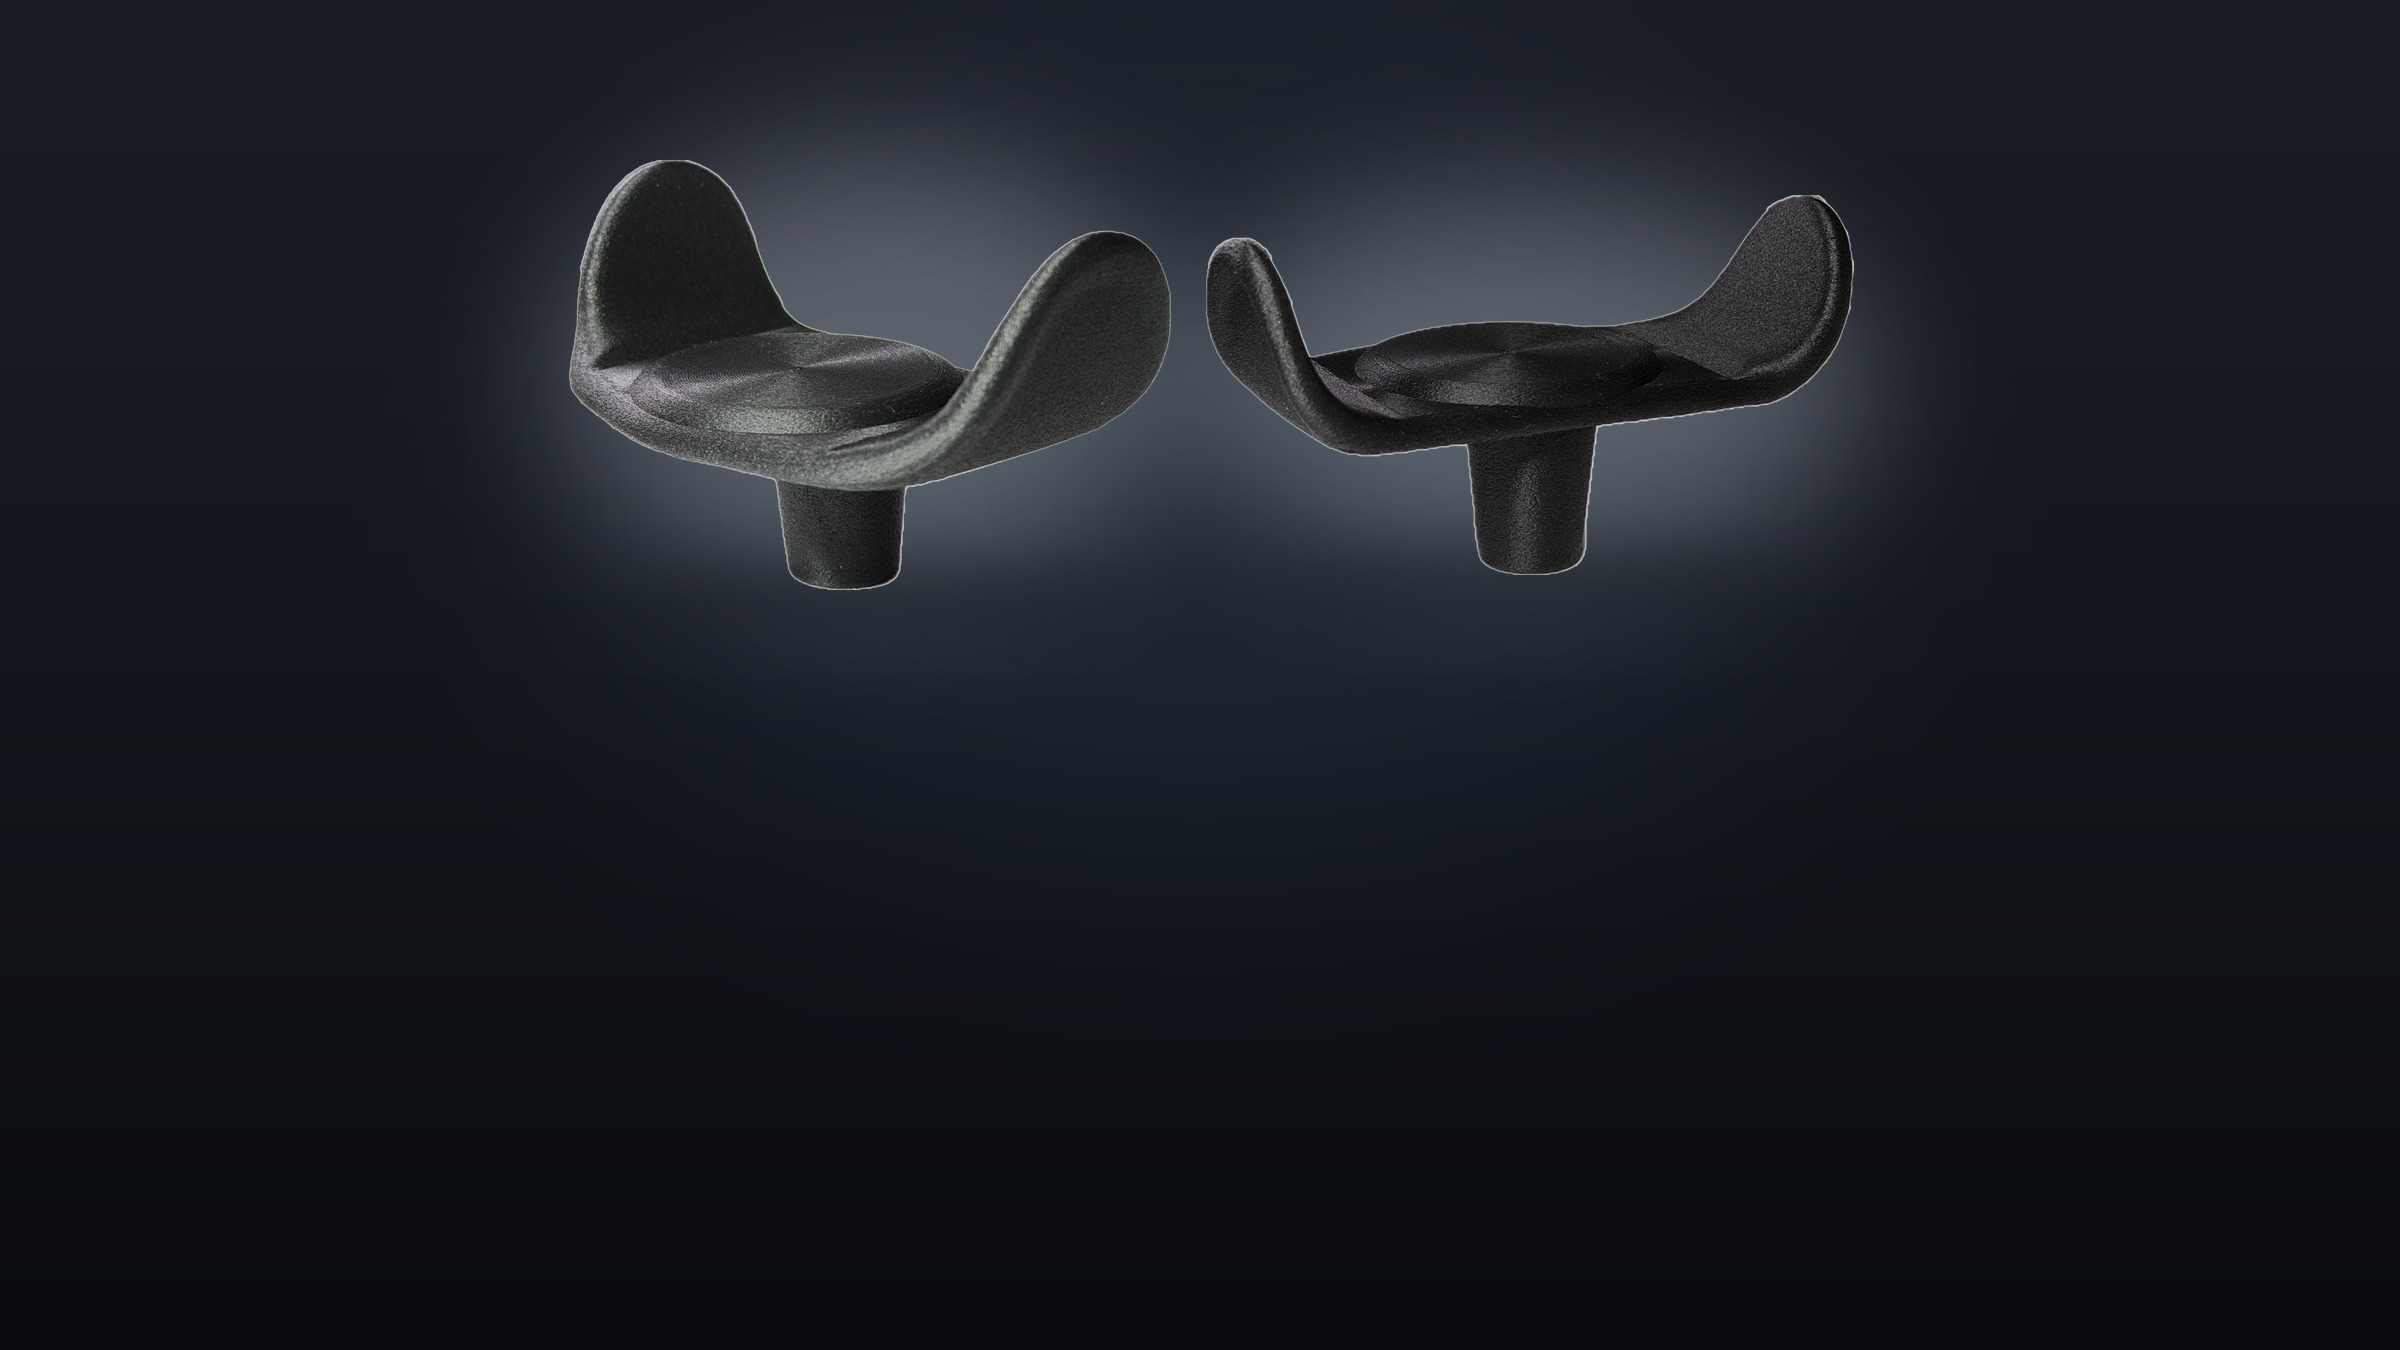
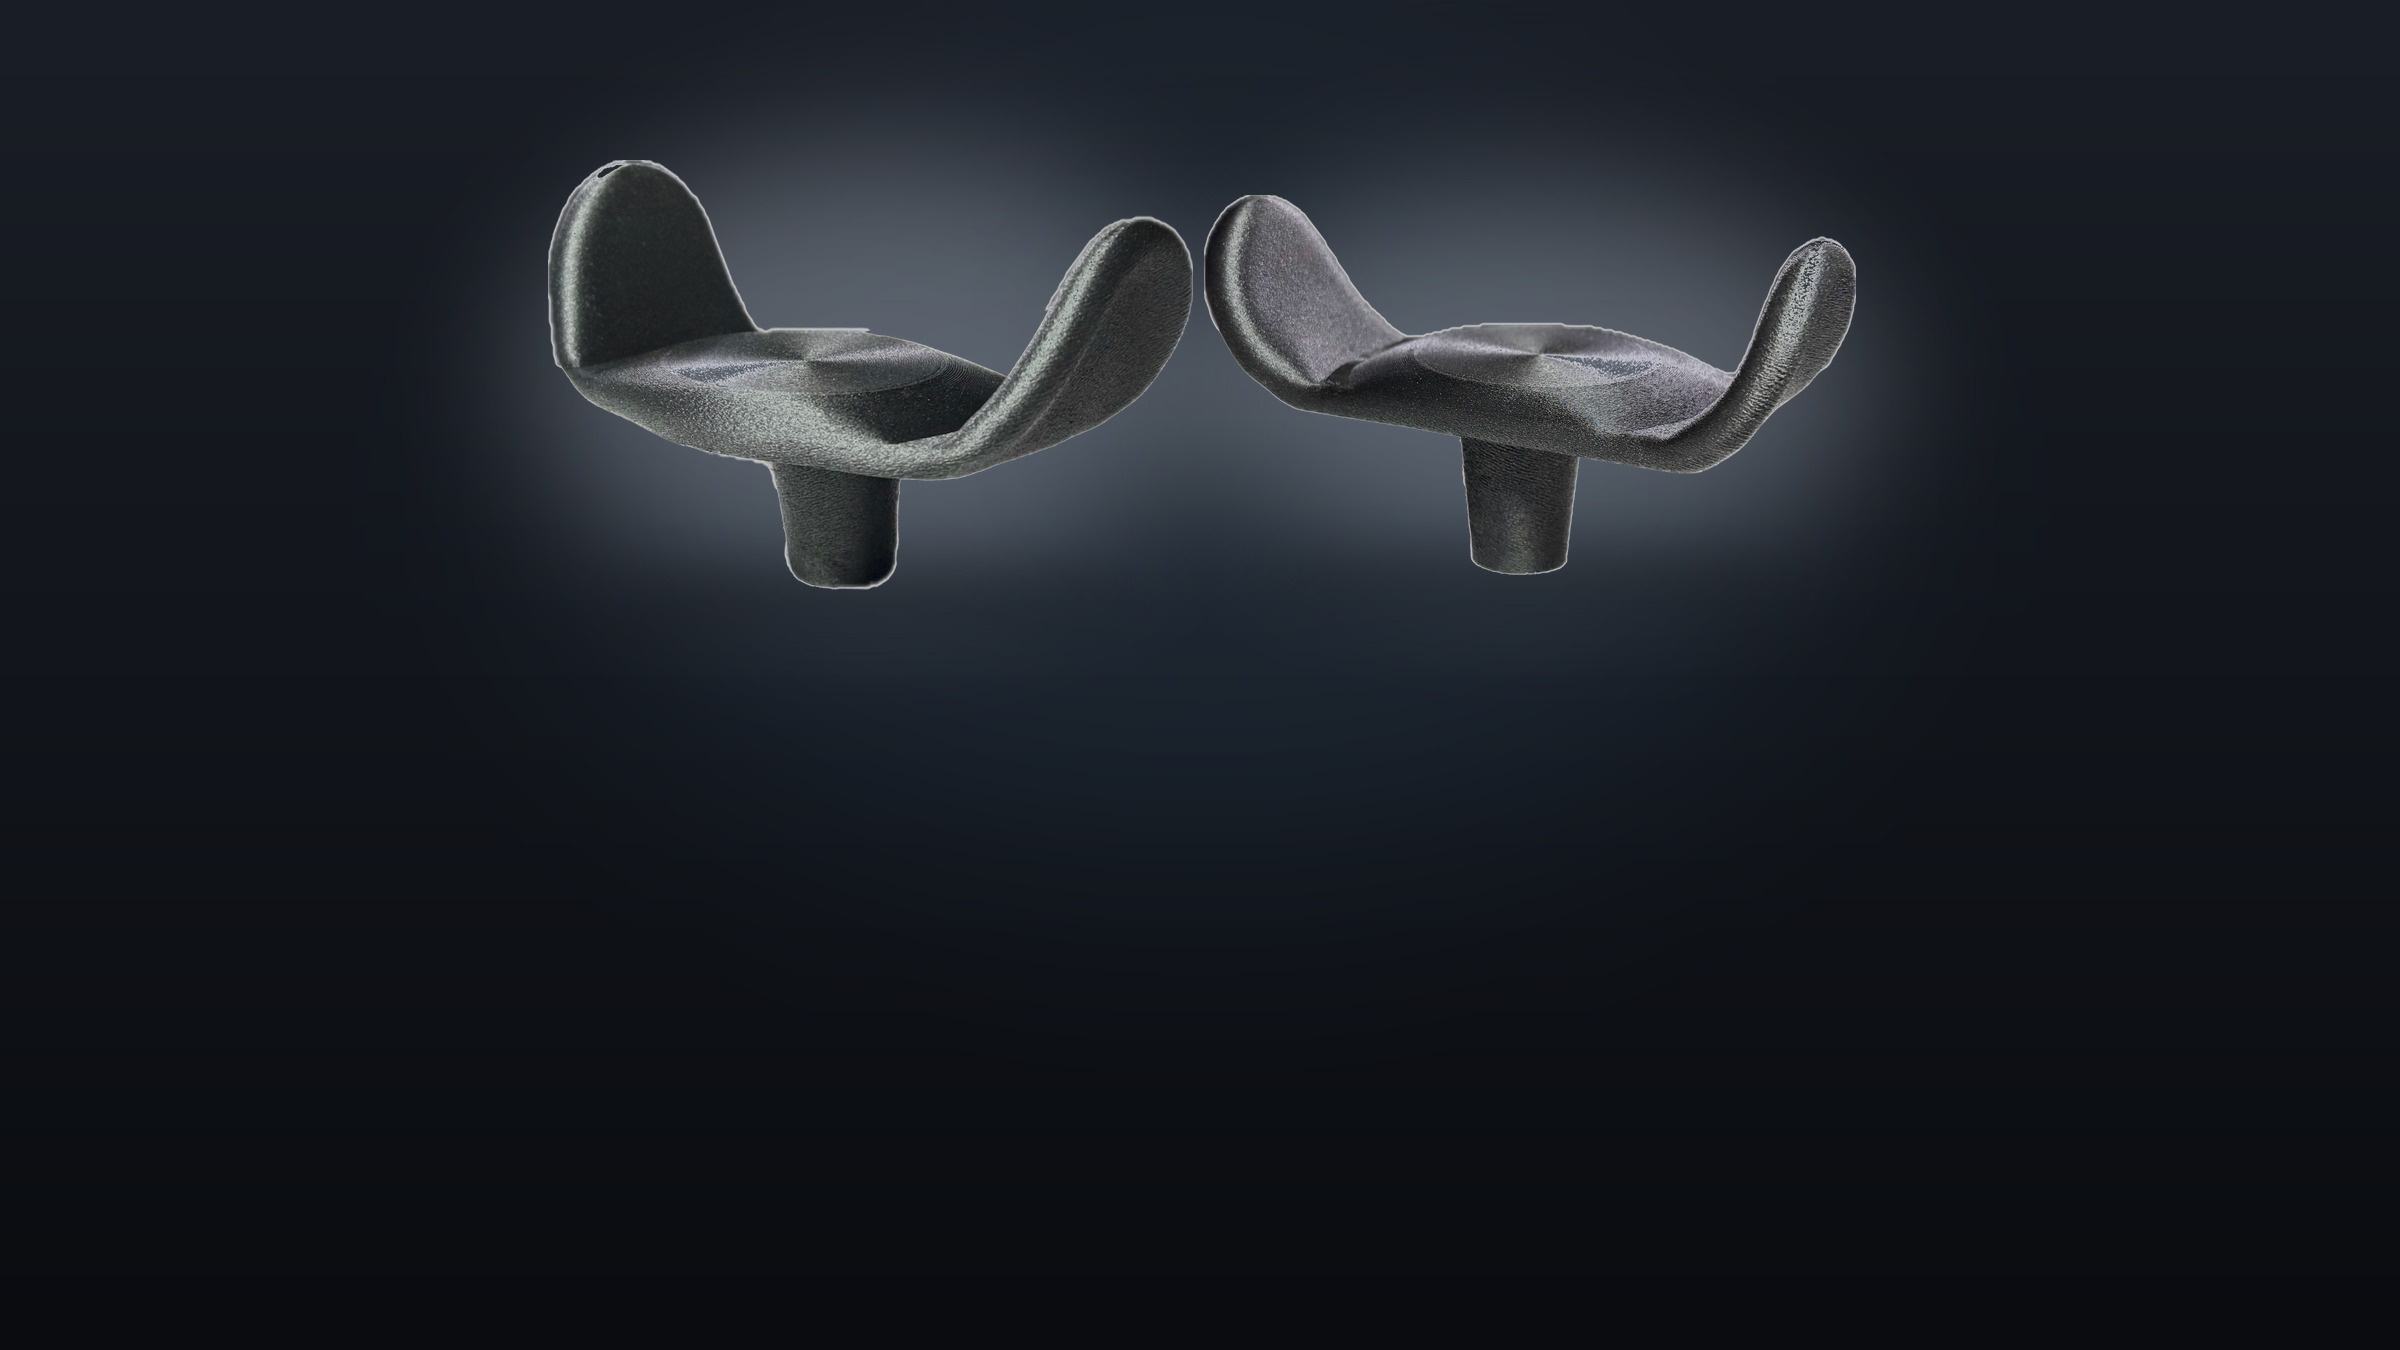
1.9

Changed region(s): [[0.2188, 0.0933, 0.7812, 0.4356]]

diff --git a/joystick-topper.html b/joystick-topper.html
@@ -8,7 +8,7 @@
 <meta property="og:title" content="Carbon Fiber Joystick Topper | Rockstar Health">
 <meta property="og:description" content="An ergonomic press-on grip for power wheelchair joysticks.">
 <meta property="og:type" content="website">
-<link rel="icon" href="assets/rockstar-logo.png">
+<link rel="icon" href="assets/favicon.png">
 <link rel="stylesheet" href="assets/rockstar-glass.css">
 <link rel="stylesheet" href="assets/site.css">
 </head>
@@ -17,13 +17,13 @@
 
 <main><div class="page-width page-body"><section class="rh-page-hero" aria-labelledby="rh-pdp-h1"><div class="rh-page-hero__eyebrow">Adaptive Accessory</div><h1 class="rh-page-hero__heading" id="rh-pdp-h1">Carbon Fiber Goalpost Joystick Topper</h1><p class="rh-page-hero__lede">An open U-shape grip that replaces the standard joystick knob, designed by a wheelchair user.</p></section>
 
-<section class="rh-section rh-section--wide rh-pdp"><div class="rh-pdp__grid"><div class="rh-pdp__gallery"><img class="rh-pdp__main" id="pdpMain" src="assets/pdp-main.jpg" alt="Carbon fiber goalpost joystick topper"><div class="rh-pdp__thumbs"><button type="button" class="rh-pdp__thumb is-active"><img src="assets/pdp-main.jpg" alt="Three-quarter view"></button><button type="button" class="rh-pdp__thumb"><img src="assets/pdp-front.jpg" alt="Front view"></button><button type="button" class="rh-pdp__thumb"><img src="assets/topper-installed.jpg" alt="Installed on a joystick"></button><button type="button" class="rh-pdp__thumb"><img src="assets/topper-carbon.jpg" alt="Carbon fiber detail"></button><button type="button" class="rh-pdp__thumb"><img src="assets/topper-printer.jpg" alt="3D printing"></button></div></div><div class="rh-pdp__info"><div class="rh-pdp__badges"><span class="rh-pdp__badge">Made in USA</span><span class="rh-pdp__badge">Nonprofit owned</span><span class="rh-pdp__badge">Lifetime warranty</span></div><div class="rh-pdp__price">$24.99 <small>free shipping</small></div><p class="rh-pdp__desc">Most joysticks ship with a small round knob you have to pinch and squeeze. This replaces it with an open, U-shaped surface that is easier to live with all day.</p><ul class="rh-pdp__points"><li>Open goalpost shape, nothing to pinch or squeeze</li><li>Carbon fiber reinforced nylon, not soft plastic</li><li>Fits most standard joystick stems, about 6.4 mm</li><li>Unlimited lifetime warranty</li></ul><div class="rh-pdp__buy"><a class="button button-primary" href="https://www.etsy.com/search?q=rockstar%20health%20joystick%20topper" target="_blank" rel="noopener">Buy on Etsy</a><a class="button button-secondary" href="https://www.ebay.com/sch/i.html?_nkw=rockstar+health+joystick+topper" target="_blank" rel="noopener">Buy on eBay</a></div><p class="rh-pdp__note">Designed and 3D printed to order in Saint Johns, Florida.</p></div></div><script>document.querySelectorAll(".rh-pdp__thumb").forEach(function(t){t.addEventListener("click",function(){var i=this.querySelector("img"),m=document.getElementById("pdpMain");if(m&&i)m.src=i.src;document.querySelectorAll(".rh-pdp__thumb").forEach(function(x){x.classList.remove("is-active")});this.classList.add("is-active")})});</script></section>
+<section class="rh-section rh-section--wide rh-pdp"><div class="rh-pdp__grid"><div class="rh-pdp__gallery"><img class="rh-pdp__main" id="pdpMain" src="assets/pdp-main.jpg" alt="Carbon fiber goalpost joystick topper"><div class="rh-pdp__thumbs"><button type="button" class="rh-pdp__thumb is-active"><img src="assets/pdp-main.jpg" alt="Three-quarter view"></button><button type="button" class="rh-pdp__thumb"><img src="assets/pdp-front.jpg" alt="Front view"></button><button type="button" class="rh-pdp__thumb"><img src="assets/topper-installed.jpg" alt="Installed on a joystick"></button><button type="button" class="rh-pdp__thumb"><img src="assets/topper-carbon.jpg" alt="Carbon fiber detail"></button><button type="button" class="rh-pdp__thumb"><img src="assets/topper-printer.jpg" alt="3D printing"></button></div></div><div class="rh-pdp__info"><div class="rh-pdp__badges"><span class="rh-pdp__badge">Made in USA</span><span class="rh-pdp__badge">Nonprofit owned</span><span class="rh-pdp__badge">Lifetime warranty</span></div><div class="rh-pdp__price">$19.49 <small>free shipping</small></div><p class="rh-pdp__desc">Most joysticks ship with a small round knob you have to pinch and squeeze. This replaces it with an open, U-shaped surface that is easier to live with all day.</p><ul class="rh-pdp__points"><li>Open goalpost shape, nothing to pinch or squeeze</li><li>Carbon fiber reinforced nylon, not soft plastic</li><li>Fits most standard joystick stems, about 6.4 mm</li><li>Unlimited lifetime warranty</li></ul><div class="rh-pdp__buy"><a class="button button-primary" href="https://a.co/d/05mTZezS" target="_blank" rel="noopener">Buy on Amazon</a><a class="button button-secondary" href="https://www.etsy.com/listing/4526148081/carbon-fiber-wheelchair-joystick-handle" target="_blank" rel="noopener">Buy on Etsy</a><a class="button button-secondary" href="https://www.ebay.com/itm/366497483199" target="_blank" rel="noopener">Buy on eBay</a></div><p class="rh-pdp__note">Designed and 3D printed to order in Saint Johns, Florida.</p></div></div><script>document.querySelectorAll(".rh-pdp__thumb").forEach(function(t){t.addEventListener("click",function(){var i=this.querySelector("img"),m=document.getElementById("pdpMain");if(m&&i)m.src=i.src;document.querySelectorAll(".rh-pdp__thumb").forEach(function(x){x.classList.remove("is-active")});this.classList.add("is-active")})});</script></section>
 
 <section class="rh-section" aria-labelledby="rh-pdp-fit"><h2 class="rh-section__title" id="rh-pdp-fit">How It Fits</h2><p class="rh-marketplaces__sub">It is a press-on upgrade, not an install. Here is the whole process.</p><div class="rh-steps"><div class="rh-step"><div class="rh-step__n">1</div><h3 class="rh-step__t">Measure your stem</h3><p class="rh-step__d">Standard power wheelchair joystick stems are about 6.4 mm across. Measure yours with calipers or a ruler before ordering.</p></div><div class="rh-step"><div class="rh-step__n">2</div><h3 class="rh-step__t">Press it on</h3><p class="rh-step__d">The topper presses firmly onto the stem by hand. No tools, no adhesive, and no dealer appointment.</p></div><div class="rh-step"><div class="rh-step__n">3</div><h3 class="rh-step__t">Drive your way</h3><p class="rh-step__d">Steer with an open hand, the side of your hand, your wrist, or a light grip. Pop it back off any time.</p></div></div></section>
 
 <section class="rh-section" aria-labelledby="rh-pdp-who"><h2 class="rh-section__title" id="rh-pdp-who">Who It Is For</h2><div class="rh-prose"><p>People reach for the goalpost shape for all kinds of reasons.</p></div><ul class="rh-pdp__points" style="max-width:560px;margin:0 auto;text-align:left;"><li>Drivers who find the stock round knob hard to hold or tiring over a long day</li><li>Anyone who wants a steadier, more comfortable place to rest the hand</li><li>A swappable upgrade you can add yourself, with no dealer and no prescription</li></ul></section>
 
-<section class="rh-section" aria-labelledby="rh-pdp-specs"><h2 class="rh-section__title" id="rh-pdp-specs">Specifications</h2><div class="rh-specs"><div class="rh-spec"><span class="rh-spec__k">Price</span><span class="rh-spec__v">$24.99, free shipping</span></div><div class="rh-spec"><span class="rh-spec__k">Material</span><span class="rh-spec__v">Carbon fiber reinforced nylon (PAHT-CF)</span></div><div class="rh-spec"><span class="rh-spec__k">Fit</span><span class="rh-spec__v">Most standard stems, about 6.4 mm (bore 6.6 mm)</span></div><div class="rh-spec"><span class="rh-spec__k">Size</span><span class="rh-spec__v">About 4.1 x 4.0 x 1.2 in</span></div><div class="rh-spec"><span class="rh-spec__k">Finish</span><span class="rh-spec__v">Premium matte black</span></div><div class="rh-spec"><span class="rh-spec__k">Weight</span><span class="rh-spec__v">About 0.7 oz</span></div><div class="rh-spec"><span class="rh-spec__k">Made in</span><span class="rh-spec__v">Saint Johns, Florida</span></div><div class="rh-spec"><span class="rh-spec__k">Warranty</span><span class="rh-spec__v">Unlimited lifetime</span></div></div></section>
+<section class="rh-section" aria-labelledby="rh-pdp-specs"><h2 class="rh-section__title" id="rh-pdp-specs">Specifications</h2><div class="rh-specs"><div class="rh-spec"><span class="rh-spec__k">Price</span><span class="rh-spec__v">$19.49, free shipping</span></div><div class="rh-spec"><span class="rh-spec__k">Material</span><span class="rh-spec__v">Carbon fiber reinforced nylon (PAHT-CF)</span></div><div class="rh-spec"><span class="rh-spec__k">Fit</span><span class="rh-spec__v">Most standard stems, about 6.4 mm (bore 6.6 mm)</span></div><div class="rh-spec"><span class="rh-spec__k">Size</span><span class="rh-spec__v">About 4.1 x 4.0 x 1.2 in</span></div><div class="rh-spec"><span class="rh-spec__k">Finish</span><span class="rh-spec__v">Premium matte black</span></div><div class="rh-spec"><span class="rh-spec__k">Weight</span><span class="rh-spec__v">About 0.7 oz</span></div><div class="rh-spec"><span class="rh-spec__k">Made in</span><span class="rh-spec__v">Saint Johns, Florida</span></div><div class="rh-spec"><span class="rh-spec__k">Warranty</span><span class="rh-spec__v">Unlimited lifetime</span></div></div></section>
 
 <section class="rh-section" aria-labelledby="rh-pdp-mat"><h2 class="rh-section__title" id="rh-pdp-mat">How It Is Made</h2><div class="rh-prose"><p>Each topper is 3D printed to order from carbon fiber reinforced nylon, an engineering material (PAHT-CF) that is stiff, strong, and light. It stands up to daily use far better than the soft plastic on a stock knob.</p><p>We print on a state of the art multi material machine, check quality on every print, and tune each profile for strength and durability. The finish is a clean matte black, and the part is built to last.</p></div></section>
 

diff --git a/about.html b/about.html
@@ -8,7 +8,7 @@
 <meta property="og:title" content="About | Rockstar Health">
 <meta property="og:description" content="Who we are and why we started Rockstar Health.">
 <meta property="og:type" content="website">
-<link rel="icon" href="assets/rockstar-logo.png">
+<link rel="icon" href="assets/favicon.png">
 <link rel="stylesheet" href="assets/rockstar-glass.css">
 <link rel="stylesheet" href="assets/site.css">
 </head>
@@ -19,7 +19,7 @@
 
 <section class="rh-section" aria-labelledby="our-mission"><h2 class="rh-section__title" id="our-mission">Our Mission</h2><div class="rh-prose"><p>Rockstar Health is a nonprofit-owned mobility company redesigning how rehabilitation technology is built, distributed, and accessed.</p><p>For decades, that world has run on dealer networks, proprietary software, and reimbursement rules that leave users with little control over the equipment they depend on every day. Routine adjustments mean dealer appointments. Repairs can take weeks or months. Basic accessibility features get treated as optional upgrades. Too often, mobility comes down to insurance approval instead of actual need.</p><p>Rockstar Health was founded to challenge that structure. We believe:</p><ul><li>Wheelchair users should have real control over their own equipment</li><li>Personalization should not require unnecessary gatekeeping</li><li>Repairs should be fast and accessible, not a months-long wait</li><li>Warranties should not punish people for self-advocacy</li><li>A mobility company should do more than maximize profit</li></ul><p>We are not trying to rebrand what already exists. The structure itself has to be different, which is why the company is built the way it is.</p></div><div class="rh-cta-group rh-cta-group--row"><a href="financial-structure.html" class="button button-secondary">How we are structured</a></div></section>
 
-<section class="rh-section" aria-labelledby="rh-title-about-3"><h2 class="rh-section__title" id="rh-title-about-3">Meet the Founder</h2><figure class="rh-figure" role="img" aria-label="Portrait of Ryleigh Newman, founder of Rockstar Health. Replace this placeholder with a real photo in the page editor."><div class="rh-image-placeholder rh-image-placeholder--portrait"><svg class="rh-image-placeholder__icon" viewBox="0 0 24 24" fill="none" stroke="currentColor" stroke-width="1.5" aria-hidden="true"><rect x="3" y="3" width="18" height="18" rx="2"/><circle cx="9" cy="9" r="2"/><path d="m21 15-3.086-3.086a2 2 0 0 0-2.828 0L6 21"/></svg><span class="rh-image-placeholder__label">Founder photo</span><span class="rh-image-placeholder__desc">Portrait of Ryleigh Newman, founder of Rockstar Health. Replace this placeholder with a real photo in the page editor.</span></div></figure><div class="rh-prose"><p>Ryleigh Newman is the founder and CEO of Rockstar Health, and a power wheelchair user himself. The company came out of years of watching the gap between what wheelchair users need and what the system actually delivers.</p><p>He graduated from the Harriet L. Wilkes Honors College at Florida Atlantic University with a major in Biological and Physical Sciences and concentrations in biochemistry and data science.</p><p>His research focuses on hereditary neuromuscular disease, genomics, and rare disease discovery. His honors thesis, <em>Uncovering a Novel Neuromuscular Disorder</em>, investigates a multigenerational hereditary neuropathy using whole genome sequencing and comparative genetic analysis.</p></div><div class="rh-cta-group rh-cta-group--row"><a href="our-products.html" class="button button-secondary">See what we make</a></div></section></div></main>
+<section class="rh-section" aria-labelledby="rh-title-about-3"><h2 class="rh-section__title" id="rh-title-about-3">Meet the Founder</h2><figure class="rh-figure"><img src="assets/founder.jpg" alt="Ryleigh Newman, founder of Rockstar Health" width="800" height="800" style="display:block;width:100%;max-width:300px;margin:0 auto 10px;border-radius:22px;aspect-ratio:1;object-fit:cover;box-shadow:0 12px 34px rgba(0,0,0,.4)"></figure><div class="rh-prose"><p>Ryleigh Newman is the founder and CEO of Rockstar Health, and a power wheelchair user himself. The company came out of years of watching the gap between what wheelchair users need and what the system actually delivers.</p><p>He graduated from the Harriet L. Wilkes Honors College at Florida Atlantic University with a major in Biological and Physical Sciences and concentrations in biochemistry and data science.</p><p>His research focuses on hereditary neuromuscular disease, genomics, and rare disease discovery. His honors thesis, <em>Uncovering a Novel Neuromuscular Disorder</em>, investigates a multigenerational hereditary neuropathy using whole genome sequencing and comparative genetic analysis.</p></div><div class="rh-cta-group rh-cta-group--row"><a href="our-products.html" class="button button-secondary">See what we make</a></div></section></div></main>
 <footer class="site-footer"><div class="rh-footer"><p>© 2026 Rockstar Health · <a href="storefronts.html">Storefronts</a> · <a href="custom-order.html">Custom Order</a></p></div></footer>
 </body>
 </html>

diff --git a/index.html b/index.html
@@ -8,7 +8,7 @@
 <meta property="og:title" content="Rockstar Health">
 <meta property="og:description" content="A nonprofit-owned power wheelchair company building affordable, accessible mobility products.">
 <meta property="og:type" content="website">
-<link rel="icon" href="assets/rockstar-logo.png">
+<link rel="icon" href="assets/favicon.png">
 <link rel="stylesheet" href="assets/rockstar-glass.css">
 <link rel="stylesheet" href="assets/site.css">
 </head>
@@ -17,7 +17,7 @@
 <section class="rh-hero"><div class="rh-hero__inner page-width"><h1 class="rh-hero__title">The nonprofit power wheelchair company.</h1><a href="our-products.html" class="button button-primary">View Our Products</a></div></section>
 <main><div class="page-width page-body"><section class="rh-section"><div class="rh-prose"><p>Rockstar Health makes mobility equipment that starts with the person using it, not the dealer or the insurer. We are nonprofit owned, so every product exists to make independence more affordable and more comfortable for the people who need it. We are early, and we are building in the open.</p></div></section>
 
-<section class="rh-section rh-section--wide" aria-labelledby="home-make"><h2 class="rh-section__title" id="home-make">What we make today</h2><p class="rh-marketplaces__sub">We are starting with adaptive accessories, the small things that make a power chair easier to live with every day.</p><div class="rh-products" style="max-width:400px;margin-inline:auto"><a class="rh-product-card" href="joystick-topper.html"><div class="rh-product-card__media"><img src="assets/card-toppers.jpg" alt="Carbon fiber goalpost joystick topper"></div><div class="rh-product-card__body"><h3 class="rh-product-card__title">Carbon Fiber Goalpost Topper</h3><p class="rh-product-card__desc">An open U-shape grip that replaces the standard joystick knob, for open-hand or low-grip driving. $24.99.</p><span class="rh-product-card__cta">View product</span></div></a></div></section>
+<section class="rh-section rh-section--wide" aria-labelledby="home-make"><h2 class="rh-section__title" id="home-make">What we make today</h2><p class="rh-marketplaces__sub">We are starting with adaptive accessories, the small things that make a power chair easier to live with every day.</p><div class="rh-products" style="max-width:400px;margin-inline:auto"><a class="rh-product-card" href="joystick-topper.html"><div class="rh-product-card__media"><img src="assets/card-toppers.jpg" alt="Carbon fiber goalpost joystick topper"></div><div class="rh-product-card__body"><h3 class="rh-product-card__title">Carbon Fiber Goalpost Topper</h3><p class="rh-product-card__desc">An open U-shape grip that replaces the standard joystick knob, for open-hand or low-grip driving. $19.49.</p><span class="rh-product-card__cta">View product</span></div></a></div></section>
 
 <section class="rh-section" aria-labelledby="home-more"><h2 class="rh-section__title" id="home-more">The bigger picture</h2><div class="rh-prose"><p>Rockstar Health was founded in May 2026 by a power wheelchair user who got tired of waiting for the industry to build for real hands and real days. Where the company came from, and how it is structured to keep the mission ahead of profit, are both worth the read.</p></div><div class="rh-cta-group rh-cta-group--row"><a href="about.html" class="button button-primary">Read our story</a><a href="financial-structure.html" class="button button-secondary">How we are structured</a></div></section></div></main>
 <footer class="site-footer"><div class="rh-footer"><p>© 2026 Rockstar Health · <a href="storefronts.html">Storefronts</a> · <a href="custom-order.html">Custom Order</a></p></div></footer>

diff --git a/our-products.html b/our-products.html
@@ -8,7 +8,7 @@
 <meta property="og:title" content="Our Products | Rockstar Health">
 <meta property="og:description" content="Adaptive mobility accessories, starting with the carbon fiber joystick topper.">
 <meta property="og:type" content="website">
-<link rel="icon" href="assets/rockstar-logo.png">
+<link rel="icon" href="assets/favicon.png">
 <link rel="stylesheet" href="assets/rockstar-glass.css">
 <link rel="stylesheet" href="assets/site.css">
 </head>
@@ -17,7 +17,7 @@
 
 <main><div class="page-width page-body"><section class="rh-page-hero" aria-labelledby="rh-hero-products-1"><div class="rh-page-hero__eyebrow">Shop</div><h1 class="rh-page-hero__heading" id="rh-hero-products-1">Our Products</h1><p class="rh-page-hero__lede">Adaptive accessories and mobility-focused products, designed by a wheelchair user and built around real daily use.</p></section>
 
-<section class="rh-section rh-section--wide" aria-labelledby="rh-title-products-2"><h2 class="rh-section__title" id="rh-title-products-2">Current Products</h2><p class="rh-marketplaces__sub">We are starting with adaptive accessories while the larger mobility work develops. Each one comes from a real gap a wheelchair user runs into.</p><div class="rh-products" style="grid-template-columns:repeat(auto-fit,minmax(195px,1fr))"><a class="rh-product-card" href="joystick-topper.html"><div class="rh-product-card__media"><img src="assets/card-toppers.jpg" alt="Joystick Toppers"></div><div class="rh-product-card__body"><h3 class="rh-product-card__title">Joystick Toppers</h3><p class="rh-product-card__desc">Our carbon fiber goalpost topper. An open U-shape grip that replaces the knob for open-hand or low-grip driving. $24.99.</p><span class="rh-product-card__cta">View product</span></div></a><div class="rh-product-card rh-product-card--soon"><div class="rh-product-card__media"><svg class="rh-product-card__icon" viewBox="0 0 24 24" fill="none" stroke="currentColor" stroke-width="1.5" aria-hidden="true"><rect x="3" y="3" width="18" height="18" rx="2"/><circle cx="9" cy="9" r="2"/><path d="m21 15-3.086-3.086a2 2 0 0 0-2.828 0L6 21"/></svg><span class="rh-product-card__media-label">Photo coming soon</span></div><div class="rh-product-card__body"><h3 class="rh-product-card__title">Joystick Covers</h3><p class="rh-product-card__desc">A protective layer that keeps your joystick clean and easy to grip. Made to fit common power wheelchair controllers.</p><span class="rh-product-card__cta rh-product-card__cta--soon">Coming soon</span></div></div><div class="rh-product-card rh-product-card--soon"><div class="rh-product-card__media"><svg class="rh-product-card__icon" viewBox="0 0 24 24" fill="none" stroke="currentColor" stroke-width="1.5" aria-hidden="true"><rect x="3" y="3" width="18" height="18" rx="2"/><circle cx="9" cy="9" r="2"/><path d="m21 15-3.086-3.086a2 2 0 0 0-2.828 0L6 21"/></svg><span class="rh-product-card__media-label">Photo coming soon</span></div><div class="rh-product-card__body"><h3 class="rh-product-card__title">Seating Accessories</h3><p class="rh-product-card__desc">Small additions for comfort and positioning, built around how people actually sit in their chairs all day.</p><span class="rh-product-card__cta rh-product-card__cta--soon">Coming soon</span></div></div><div class="rh-product-card rh-product-card--soon"><div class="rh-product-card__media"><svg class="rh-product-card__icon" viewBox="0 0 24 24" fill="none" stroke="currentColor" stroke-width="1.5" aria-hidden="true"><rect x="3" y="3" width="18" height="18" rx="2"/><circle cx="9" cy="9" r="2"/><path d="m21 15-3.086-3.086a2 2 0 0 0-2.828 0L6 21"/></svg><span class="rh-product-card__media-label">Photo coming soon</span></div><div class="rh-product-card__body"><h3 class="rh-product-card__title">Desk Accessories</h3><p class="rh-product-card__desc">Pieces that help a desk or tray work the way a power chair actually approaches it.</p><span class="rh-product-card__cta rh-product-card__cta--soon">Coming soon</span></div></div></div></section>
+<section class="rh-section rh-section--wide" aria-labelledby="rh-title-products-2"><h2 class="rh-section__title" id="rh-title-products-2">Current Products</h2><p class="rh-marketplaces__sub">We are starting with adaptive accessories while the larger mobility work develops. Each one comes from a real gap a wheelchair user runs into.</p><div class="rh-products" style="grid-template-columns:repeat(auto-fit,minmax(195px,1fr))"><a class="rh-product-card" href="joystick-topper.html"><div class="rh-product-card__media"><img src="assets/card-toppers.jpg" alt="Joystick Toppers"></div><div class="rh-product-card__body"><h3 class="rh-product-card__title">Joystick Toppers</h3><p class="rh-product-card__desc">Our carbon fiber goalpost topper. An open U-shape grip that replaces the knob for open-hand or low-grip driving. $19.49.</p><span class="rh-product-card__cta">View product</span></div></a><div class="rh-product-card rh-product-card--soon"><div class="rh-product-card__media"><svg class="rh-product-card__icon" viewBox="0 0 24 24" fill="none" stroke="currentColor" stroke-width="1.5" aria-hidden="true"><rect x="3" y="3" width="18" height="18" rx="2"/><circle cx="9" cy="9" r="2"/><path d="m21 15-3.086-3.086a2 2 0 0 0-2.828 0L6 21"/></svg><span class="rh-product-card__media-label">Photo coming soon</span></div><div class="rh-product-card__body"><h3 class="rh-product-card__title">Joystick Covers</h3><p class="rh-product-card__desc">A protective layer that keeps your joystick clean and easy to grip. Made to fit common power wheelchair controllers.</p><span class="rh-product-card__cta rh-product-card__cta--soon">Coming soon</span></div></div><div class="rh-product-card rh-product-card--soon"><div class="rh-product-card__media"><svg class="rh-product-card__icon" viewBox="0 0 24 24" fill="none" stroke="currentColor" stroke-width="1.5" aria-hidden="true"><rect x="3" y="3" width="18" height="18" rx="2"/><circle cx="9" cy="9" r="2"/><path d="m21 15-3.086-3.086a2 2 0 0 0-2.828 0L6 21"/></svg><span class="rh-product-card__media-label">Photo coming soon</span></div><div class="rh-product-card__body"><h3 class="rh-product-card__title">Seating Accessories</h3><p class="rh-product-card__desc">Small additions for comfort and positioning, built around how people actually sit in their chairs all day.</p><span class="rh-product-card__cta rh-product-card__cta--soon">Coming soon</span></div></div><div class="rh-product-card rh-product-card--soon"><div class="rh-product-card__media"><svg class="rh-product-card__icon" viewBox="0 0 24 24" fill="none" stroke="currentColor" stroke-width="1.5" aria-hidden="true"><rect x="3" y="3" width="18" height="18" rx="2"/><circle cx="9" cy="9" r="2"/><path d="m21 15-3.086-3.086a2 2 0 0 0-2.828 0L6 21"/></svg><span class="rh-product-card__media-label">Photo coming soon</span></div><div class="rh-product-card__body"><h3 class="rh-product-card__title">Desk Accessories</h3><p class="rh-product-card__desc">Pieces that help a desk or tray work the way a power chair actually approaches it.</p><span class="rh-product-card__cta rh-product-card__cta--soon">Coming soon</span></div></div></div></section>
 
 <section class="rh-section" aria-labelledby="rh-title-products-3"><h2 class="rh-section__title" id="rh-title-products-3">Looking For Something Specific?</h2><div class="rh-prose"><p>We take custom requests. Tell us what you are working with and what you are trying to solve, and we will let you know if we can build it.</p><p>You can also order through the marketplaces we are listed on if you prefer to use a platform you already have.</p></div><div class="rh-cta-group"><a href="custom-order.html" class="button button-primary">Start a custom order</a><a href="storefronts.html" class="button button-secondary">Where to find us</a></div></section></div></main>
 <footer class="site-footer"><div class="rh-footer"><p>© 2026 Rockstar Health · <a href="storefronts.html">Storefronts</a> · <a href="custom-order.html">Custom Order</a></p></div></footer>

diff --git a/storefronts.html b/storefronts.html
@@ -8,7 +8,7 @@
 <meta property="og:title" content="Storefronts | Rockstar Health">
 <meta property="og:description" content="Where to buy Rockstar Health products.">
 <meta property="og:type" content="website">
-<link rel="icon" href="assets/rockstar-logo.png">
+<link rel="icon" href="assets/favicon.png">
 <link rel="stylesheet" href="assets/rockstar-glass.css">
 <link rel="stylesheet" href="assets/site.css">
 </head>
@@ -17,7 +17,7 @@
 
 <main><div class="page-width page-body"><section class="rh-page-hero" aria-labelledby="rh-hero-storefronts-1"><div class="rh-page-hero__eyebrow">Shop</div><h1 class="rh-page-hero__heading" id="rh-hero-storefronts-1">Storefronts</h1><p class="rh-page-hero__lede">Rockstar Health products are available directly here and through the marketplaces below.</p></section>
 
-<section class="rh-section rh-marketplaces" aria-labelledby="rh-title-storefronts-2"><h2 class="rh-section__title" id="rh-title-storefronts-2">Where to Buy</h2><p class="rh-marketplaces__sub">If you prefer to shop through a platform you already use, our products are listed on the marketplaces below.</p><div class="rh-marketplaces__links rh-marketplaces__links--large"><a href="#" class="rh-marketplaces__btn rh-marketplaces__btn--amazon rh-marketplaces__btn--soon" aria-label="Amazon, coming soon" aria-disabled="true"><svg class="rh-marketplaces__icon" viewBox="0 0 24 24" fill="currentColor" aria-hidden="true"><path d="M13.23 10.56v-.05c-.97.02-1.99.23-1.99 1.39 0 .61.32.98.86.98.38 0 .73-.2.94-.51.26-.38.32-.73.32-1.07v-.74h-.13zm1.41 3.41c-.12.11-.3.12-.43.04-.6-.5-.71-.74-1.04-1.21-.99 1.01-1.69 1.31-2.98 1.31-1.52 0-2.7-.94-2.7-2.81 0-1.46.79-2.46 1.92-2.95 1-.44 2.4-.52 3.47-.64v-.24c0-.44.03-.96-.22-1.34-.22-.34-.64-.48-1.01-.48-.69 0-1.3.35-1.45.88-.03.16-.15.32-.31.32l-1.73-.19c-.15-.03-.31-.15-.27-.38C8.22 4.75 10.04 4 11.97 4c1.02 0 2.35.27 3.15 1.04.91.85.82 1.99.82 3.23v2.92c0 .88.36 1.26.7 1.74.12.17.15.37-.01.5l-1.99 1.54zM19.5 20.5C17.42 22.15 14.42 23 11.83 23 8.15 23 4.85 21.62 2.38 19.29c-.2-.18-.02-.42.21-.28 2.68 1.56 5.99 2.5 9.41 2.5 2.31 0 4.85-.48 7.18-1.47.35-.15.64.23.32.46zm.91-1.04c-.27-.35-1.79-.17-2.47-.08-.21.03-.24-.15-.05-.29 1.21-.85 3.19-.6 3.42-.32.23.28-.06 2.28-1.19 3.23-.18.15-.34.07-.26-.12.25-.63.82-2.07.55-2.42z"/></svg><span class="rh-marketplaces__label">Amazon &middot; Soon</span></a><a href="https://www.ebay.com/sch/i.html?_nkw=rockstar+health+joystick+topper" target="_blank" rel="noopener" class="rh-marketplaces__btn rh-marketplaces__btn--ebay" aria-label="Shop on eBay"><svg class="rh-marketplaces__icon" viewBox="0 0 24 24" fill="currentColor" aria-hidden="true"><path d="M3 9.1c0-.9.7-1.6 1.6-1.6h2.2c1.9 0 3 1 3 2.8v.1H7.9c0-.9-.5-1.4-1.4-1.4H4.7c-.4 0-.6.2-.6.6v.6h5.5v.9c0 1.9-1.1 2.9-3.1 2.9H4.6A1.6 1.6 0 0 1 3 12.4v-.5h1.9v.4c0 .4.2.6.6.6h1.7c.8 0 1.2-.4 1.2-1.1v-.3H3V9.1zm8.7 2.3H10v-.6c0-.9.7-1.6 1.6-1.6h2.2c1.9 0 3 1 3 2.8v.1h-1.9c0-.9-.5-1.4-1.4-1.4h-1.8c-.4 0-.6.2-.6.6v.1zm0 1.6h4.3v.3c0 .7-.4 1.1-1.2 1.1H13c-.4 0-.6-.2-.6-.6v-.4H10.5v.5c0 .9.7 1.6 1.6 1.6h2.1c2 0 3.1-1 3.1-2.9v-.9h-5.5v1.3zm6.6-6c0-.9.7-1.6 1.6-1.6h-.1V7h-1.9v7h1.9v-.4c.4.3.9.5 1.5.5h.9c1.6 0 2.6-1 2.6-2.8v-1c0-1.7-1-2.7-2.6-2.7h-.9c-.6 0-1.1.2-1.5.5V7h.5zm1.5 5c-.7 0-1.1-.4-1.1-1.1v-.9c0-.7.4-1.1 1.1-1.1h.8c.7 0 1.1.4 1.1 1.1v.9c0 .7-.4 1.1-1.1 1.1h-.8z"/></svg><span class="rh-marketplaces__label">eBay</span></a><a href="https://www.etsy.com/search?q=rockstar%20health%20joystick%20topper" target="_blank" rel="noopener" class="rh-marketplaces__btn rh-marketplaces__btn--etsy" aria-label="Shop on Etsy"><svg class="rh-marketplaces__icon" viewBox="0 0 24 24" fill="currentColor" aria-hidden="true"><path d="M7 4h10v3.1H10.2v2.9H16v3h-5.8v3.9H17V20H7z"/></svg><span class="rh-marketplaces__label">Etsy</span></a></div></section>
+<section class="rh-section rh-marketplaces" aria-labelledby="rh-title-storefronts-2"><h2 class="rh-section__title" id="rh-title-storefronts-2">Where to Buy</h2><p class="rh-marketplaces__sub">If you prefer to shop through a platform you already use, our products are listed on the marketplaces below.</p><div class="rh-marketplaces__links rh-marketplaces__links--large"><a href="https://a.co/d/05mTZezS" target="_blank" rel="noopener" class="rh-marketplaces__btn rh-marketplaces__btn--amazon" aria-label="Shop on Amazon"><svg class="rh-marketplaces__icon" viewBox="0 0 24 24" fill="currentColor" aria-hidden="true"><path d="M13.23 10.56v-.05c-.97.02-1.99.23-1.99 1.39 0 .61.32.98.86.98.38 0 .73-.2.94-.51.26-.38.32-.73.32-1.07v-.74h-.13zm1.41 3.41c-.12.11-.3.12-.43.04-.6-.5-.71-.74-1.04-1.21-.99 1.01-1.69 1.31-2.98 1.31-1.52 0-2.7-.94-2.7-2.81 0-1.46.79-2.46 1.92-2.95 1-.44 2.4-.52 3.47-.64v-.24c0-.44.03-.96-.22-1.34-.22-.34-.64-.48-1.01-.48-.69 0-1.3.35-1.45.88-.03.16-.15.32-.31.32l-1.73-.19c-.15-.03-.31-.15-.27-.38C8.22 4.75 10.04 4 11.97 4c1.02 0 2.35.27 3.15 1.04.91.85.82 1.99.82 3.23v2.92c0 .88.36 1.26.7 1.74.12.17.15.37-.01.5l-1.99 1.54zM19.5 20.5C17.42 22.15 14.42 23 11.83 23 8.15 23 4.85 21.62 2.38 19.29c-.2-.18-.02-.42.21-.28 2.68 1.56 5.99 2.5 9.41 2.5 2.31 0 4.85-.48 7.18-1.47.35-.15.64.23.32.46zm.91-1.04c-.27-.35-1.79-.17-2.47-.08-.21.03-.24-.15-.05-.29 1.21-.85 3.19-.6 3.42-.32.23.28-.06 2.28-1.19 3.23-.18.15-.34.07-.26-.12.25-.63.82-2.07.55-2.42z"/></svg><span class="rh-marketplaces__label">Amazon</span></a><a href="https://www.ebay.com/itm/366497483199" target="_blank" rel="noopener" class="rh-marketplaces__btn rh-marketplaces__btn--ebay" aria-label="Shop on eBay"><svg class="rh-marketplaces__icon" viewBox="0 0 24 24" fill="currentColor" aria-hidden="true"><path d="M3 9.1c0-.9.7-1.6 1.6-1.6h2.2c1.9 0 3 1 3 2.8v.1H7.9c0-.9-.5-1.4-1.4-1.4H4.7c-.4 0-.6.2-.6.6v.6h5.5v.9c0 1.9-1.1 2.9-3.1 2.9H4.6A1.6 1.6 0 0 1 3 12.4v-.5h1.9v.4c0 .4.2.6.6.6h1.7c.8 0 1.2-.4 1.2-1.1v-.3H3V9.1zm8.7 2.3H10v-.6c0-.9.7-1.6 1.6-1.6h2.2c1.9 0 3 1 3 2.8v.1h-1.9c0-.9-.5-1.4-1.4-1.4h-1.8c-.4 0-.6.2-.6.6v.1zm0 1.6h4.3v.3c0 .7-.4 1.1-1.2 1.1H13c-.4 0-.6-.2-.6-.6v-.4H10.5v.5c0 .9.7 1.6 1.6 1.6h2.1c2 0 3.1-1 3.1-2.9v-.9h-5.5v1.3zm6.6-6c0-.9.7-1.6 1.6-1.6h-.1V7h-1.9v7h1.9v-.4c.4.3.9.5 1.5.5h.9c1.6 0 2.6-1 2.6-2.8v-1c0-1.7-1-2.7-2.6-2.7h-.9c-.6 0-1.1.2-1.5.5V7h.5zm1.5 5c-.7 0-1.1-.4-1.1-1.1v-.9c0-.7.4-1.1 1.1-1.1h.8c.7 0 1.1.4 1.1 1.1v.9c0 .7-.4 1.1-1.1 1.1h-.8z"/></svg><span class="rh-marketplaces__label">eBay</span></a><a href="https://www.etsy.com/listing/4526148081/carbon-fiber-wheelchair-joystick-handle" target="_blank" rel="noopener" class="rh-marketplaces__btn rh-marketplaces__btn--etsy" aria-label="Shop on Etsy"><svg class="rh-marketplaces__icon" viewBox="0 0 24 24" fill="currentColor" aria-hidden="true"><path d="M7 4h10v3.1H10.2v2.9H16v3h-5.8v3.9H17V20H7z"/></svg><span class="rh-marketplaces__label">Etsy</span></a></div></section>
 
 <section class="rh-section" aria-labelledby="rh-title-storefronts-3"><h2 class="rh-section__title" id="rh-title-storefronts-3">Order Support</h2><div class="rh-prose"><p>For questions about an order placed through any of these platforms, reach out directly.</p><p><strong>Email</strong><br><a href="mailto:[email redacted]">[email redacted]</a></p><p>Response times may vary. For issues specific to a platform order, contacting the platform directly is often the fastest path.</p></div><div class="rh-cta-group rh-cta-group--row"><a href="our-products.html" class="button button-primary">Shop directly</a></div></section></div></main>
 <footer class="site-footer"><div class="rh-footer"><p>© 2026 Rockstar Health · <a href="storefronts.html">Storefronts</a> · <a href="custom-order.html">Custom Order</a></p></div></footer>

diff --git a/contact.html b/contact.html
@@ -8,7 +8,7 @@
 <meta property="og:title" content="Contact | Rockstar Health">
 <meta property="og:description" content="Get in touch with Rockstar Health.">
 <meta property="og:type" content="website">
-<link rel="icon" href="assets/rockstar-logo.png">
+<link rel="icon" href="assets/favicon.png">
 <link rel="stylesheet" href="assets/rockstar-glass.css">
 <link rel="stylesheet" href="assets/site.css">
 </head>

diff --git a/custom-order.html b/custom-order.html
@@ -8,7 +8,7 @@
 <meta property="og:title" content="Custom Order | Rockstar Health">
 <meta property="og:description" content="Request a custom mobility accessory.">
 <meta property="og:type" content="website">
-<link rel="icon" href="assets/rockstar-logo.png">
+<link rel="icon" href="assets/favicon.png">
 <link rel="stylesheet" href="assets/rockstar-glass.css">
 <link rel="stylesheet" href="assets/site.css">
 </head>

diff --git a/faq.html b/faq.html
@@ -8,7 +8,7 @@
 <meta property="og:title" content="FAQ | Rockstar Health">
 <meta property="og:description" content="Answers to common questions about our products and mission.">
 <meta property="og:type" content="website">
-<link rel="icon" href="assets/rockstar-logo.png">
+<link rel="icon" href="assets/favicon.png">
 <link rel="stylesheet" href="assets/rockstar-glass.css">
 <link rel="stylesheet" href="assets/site.css">
 </head>

diff --git a/financial-structure.html b/financial-structure.html
@@ -8,7 +8,7 @@
 <meta property="og:title" content="Financial Structure | Rockstar Health">
 <meta property="og:description" content="How our nonprofit and its subsidiary are structured.">
 <meta property="og:type" content="website">
-<link rel="icon" href="assets/rockstar-logo.png">
+<link rel="icon" href="assets/favicon.png">
 <link rel="stylesheet" href="assets/rockstar-glass.css">
 <link rel="stylesheet" href="assets/site.css">
 </head>